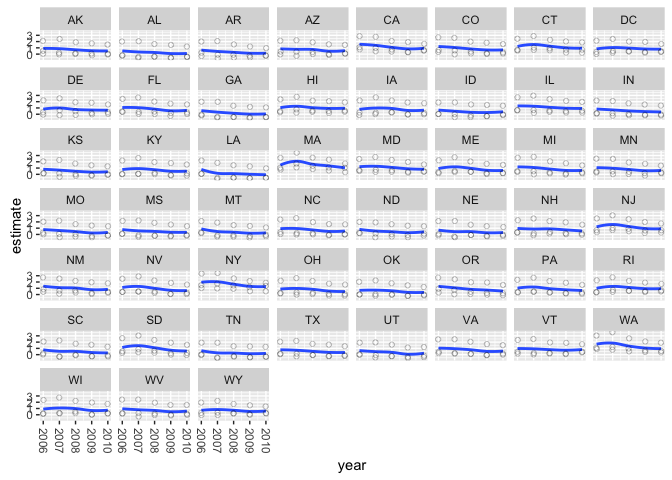
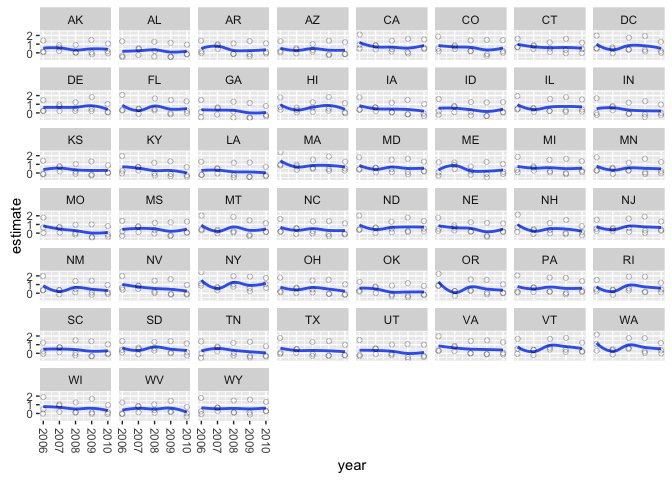
Update readme

diff --git a/README.md b/README.md
@@ -66,14 +66,14 @@ A short trial run is often a good idea.
 ``` r
 dgirt_estimates = dgirt(state_opinion_fmt, n_iter = 3, n_chain = 1)
 #> 
-#> SAMPLING FOR MODEL '605ba6820a8c93e8038f6394fbb2c3e1' NOW (CHAIN 1).
+#> SAMPLING FOR MODEL '84f408a951e786210b324c1e54eefa8c' NOW (CHAIN 1).
 #> 
 #> Chain 1, Iteration: 1 / 3 [ 33%]  (Warmup)
 #> Chain 1, Iteration: 2 / 3 [ 66%]  (Warmup)
 #> Chain 1, Iteration: 3 / 3 [100%]  (Sampling)# 
-#> #  Elapsed Time: 0.114359 seconds (Warm-up)
-#> #                0.013396 seconds (Sampling)
-#> #                0.127755 seconds (Total)
+#> #  Elapsed Time: 0.116442 seconds (Warm-up)
+#> #                0.013135 seconds (Sampling)
+#> #                0.129577 seconds (Total)
 #> #
 ```
 
@@ -113,20 +113,20 @@ First, a trial run.
 ``` r
 optimize_estimates = dgirt(state_opinion_fmt, n_iter = 20, method = "optimize",
   init_range = 0.5)
-#> Started: Fri Feb  5 00:14:12 2016
+#> Started: Thu Feb 11 17:55:07 2016
 #> Reading results from disk.
-#> Ended: Fri Feb  5 00:14:14 2016
+#> Ended: Thu Feb 11 17:55:09 2016
 head(optimize_estimates$theta_bar)
 #> Source: local data frame [6 x 5]
 #> 
 #>           param      value  year  state   race
 #>          (fctr)      (dbl) (dbl) (fctr) (fctr)
-#> 1 theta_bar.1.1  0.5326900  2006     AK  white
-#> 2 theta_bar.2.1  0.2321760  2007     AK  white
-#> 3 theta_bar.3.1  0.1361580  2008     AK  white
-#> 4 theta_bar.4.1  0.0899160  2009     AK  white
-#> 5 theta_bar.5.1  0.0553031  2010     AK  white
-#> 6 theta_bar.1.2 -0.1966250  2006     AL  white
+#> 1 theta_bar.1.1  0.1403160  2006     AK  white
+#> 2 theta_bar.2.1  0.6005720  2007     AK  white
+#> 3 theta_bar.3.1  0.0361441  2008     AK  white
+#> 4 theta_bar.4.1  0.0527501  2009     AK  white
+#> 5 theta_bar.5.1  0.2141070  2010     AK  white
+#> 6 theta_bar.1.2 -0.4816380  2006     AL  white
 ```
 
 And now a longer run.
@@ -155,14 +155,12 @@ head(state_demographics)
 #> 4     AZ  1960 White or Hispanic   Male         1     1 3.518153e-04
 #> 5     CA  1960 White or Hispanic   Male         1     1 3.463380e-03
 #> 6     CO  1960 White or Hispanic   Male         1     1 3.543790e-04
-optimize_estimates$theta_bar$race = factor(optimize_estimates$theta_bar$race, labels = c("White or Hispanic", "Black", "Other"))
-optimize_estimates$theta_bar$year = as.integer(optimize_estimates$theta_bar$year)
+state_demographics$race = factor(state_demographics$race, labels = c("white", "black", "other"))
 ```
 
 Now we pass these data, the same `groups` argument as used originally with `wrangle`, and a vector of variable names as `strata` that define aggregations of interest in the data. For exposition we'll set two optional variables. We give the name of the variable in the demographic data for the population proportion as `prop_var`. And passing a variable name to `summands` will test the demographic data for whether population proportions sum to one within groups defined by the values of that variable.
 
 ``` r
-dgirt_extract$theta_bar$race = factor(dgirt_extract$theta_bar$race, labels = c("White or Hispanic", "Black", "Other"))
 dgirt_extract$theta_bar$year = as.integer(dgirt_extract$theta_bar$year)
 group_means = poststratify(
   group_means = dgirt_extract$theta_bar,
@@ -190,7 +188,6 @@ head(group_means)
 The same approach works after `dgirt()` if `method = "optimize")`.
 
 ``` r
-optimize_estimates$theta_bar$race = factor(optimize_estimates$theta_bar$race, labels = c("White or Hispanic", "Black", "Other"))
 optimize_estimates$theta_bar$year = as.integer(optimize_estimates$theta_bar$year)
 optimize_group_means = poststratify(
   group_means = optimize_estimates$theta_bar,
@@ -205,14 +202,14 @@ optimize_group_means = poststratify(
 head(optimize_group_means)
 #> Source: local data frame [6 x 3]
 #> 
-#>    state  year      value
-#>   (fctr) (int)      (dbl)
-#> 1     AK  2006 0.47766086
-#> 2     AK  2007 0.23682464
-#> 3     AK  2008 0.17131902
-#> 4     AK  2009 0.07447566
-#> 5     AK  2010 0.07326571
-#> 6     AL  2006 0.34817007
+#>    state  year       value
+#>   (fctr) (int)       (dbl)
+#> 1     AK  2006  0.16658420
+#> 2     AK  2007  0.51675482
+#> 3     AK  2008  0.06536689
+#> 4     AK  2009  0.04741589
+#> 5     AK  2010  0.17950634
+#> 6     AL  2006 -0.02765865
 ```
 
 `plot_means`
